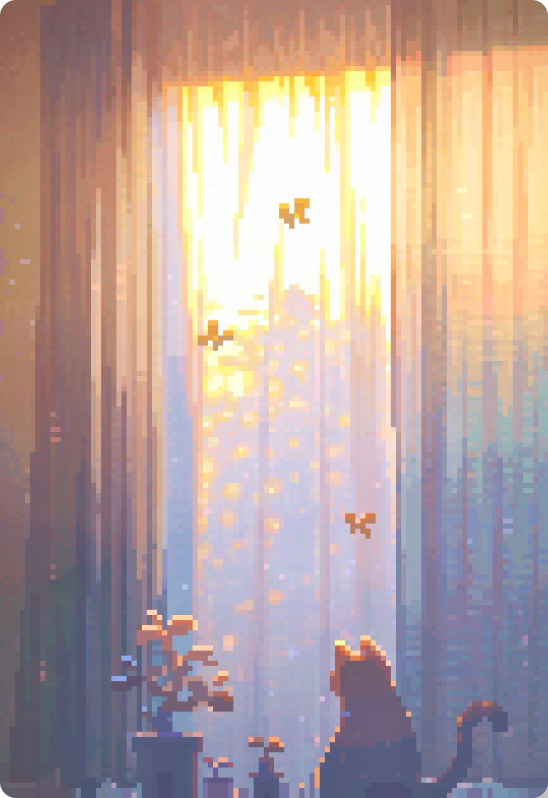
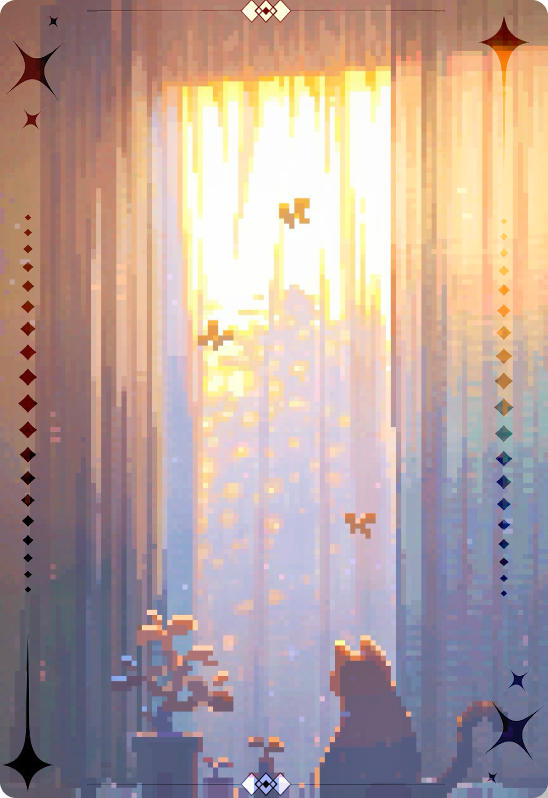
yeahyeah

diff --git a/styles.css b/styles.css
@@ -293,6 +293,8 @@ body {
     width: 100vw;
     min-height: 100vh;
     height: auto;
+    margin: 0;
+    transform-origin: top left;
     transform: scale(calc(min(100vw, 1366px) / 1366));
   }
 }
